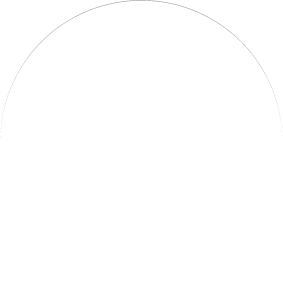
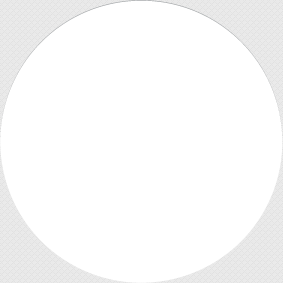
circles for ie

diff --git a/sites/all/themes/heardmentalitylight/stylesheets/ie.css b/sites/all/themes/heardmentalitylight/stylesheets/ie.css
@@ -420,3 +420,20 @@
 .ie7 .expanding .active {
   background-position : 100% -24px;
 }
+
+.ie7 .error-banner span,
+.ie8 .error-banner span {
+    background: url(../images/circle_big.png) no-repeat;
+    border-top-left-radius: 0px;
+    border-top-right-radius: 0px;
+    border-bottom-right-radius: 0px;
+    border-bottom-left-radius: 0px;
+    border-top: none;
+}
+
+.ie7 .error-banner,
+.ie8 .error-banner {
+    height: 285px;
+    width: 285px;
+    background: none;
+}

diff --git a/sites/all/themes/heardmentalitylight/stylesheets/layout.css b/sites/all/themes/heardmentalitylight/stylesheets/layout.css
@@ -731,7 +731,7 @@ img.dark-logo {
 .see-banner span, .vote-banner span, .share-banner span, .error-banner span,
 .see-banner p, .vote-banner p, .share-banner p, .error-banner p {
     display: block;
-    background-color: #FFFFFF;
+    background: #FFFFFF;
     border-top-left-radius: 200px;
     border-top-right-radius: 200px;
     border-bottom-right-radius: 200px;
